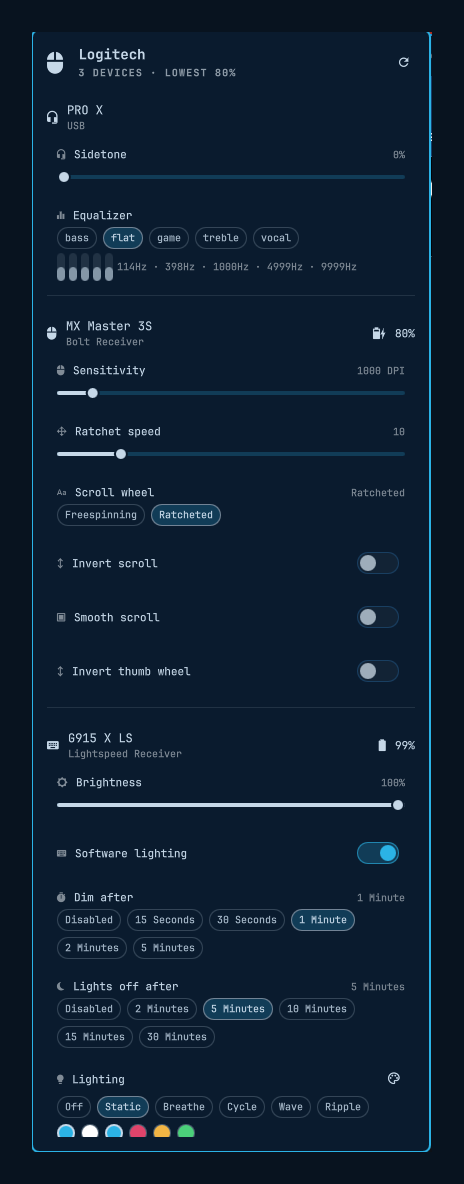
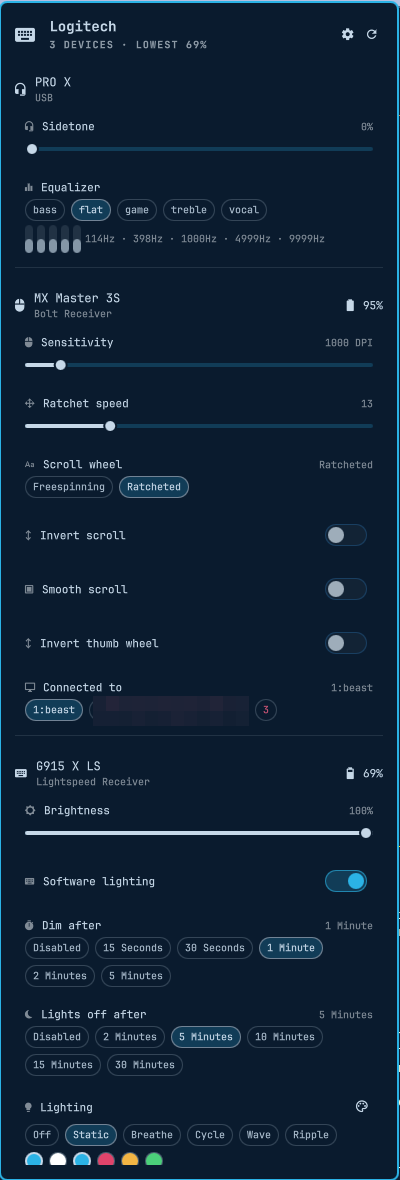
Bring the docs up to 1.2
README covers what shipped since 1.0: the batteryScope/batteryStyle bar
settings with a strip showing the drawn styles, the full settings window
(how to open it, what each group holds, why the gesture button reading
Diverted is correct), the equalizer band syntax for the CLI, and that
failures now exit non-zero.

preview.png regenerated from the current build — the old one predated
the WidgetButton spacing fix and the popup's gear button. The host-
switch chip naming another machine is pixelated; the old preview never
showed that row and the name is not the repo's to publish.

Claude-Session: https://claude.ai/code/session_01VhAvHh8Nd3bNgV1mZnXeZV

diff --git a/README.md b/README.md
@@ -4,9 +4,11 @@
 
 ---
 
-Control your Logitech hardware from the Omarchy bar: battery at a glance, and
-the settings actually worth reaching for — mouse DPI and scroll behavior,
-keyboard brightness and RGB, headset sidetone and equalizer.
+Control your Logitech hardware from the Omarchy bar: battery at a glance, a
+popup with the settings actually worth reaching for — mouse DPI and scroll
+behavior, keyboard brightness and RGB, headset sidetone and equalizer — and a
+full settings window for everything else, from button remapping to a custom
+equalizer curve.
 
 Everything talks HID++ through [Solaar](https://github.com/pwr-Solaar/Solaar)'s
 Python library. No vendor software, no Windows VM, no root.
@@ -90,8 +92,49 @@ left/right adjusts whatever is selected, Enter activates it. Host switching
 takes a deliberate Enter or click — arrow keys will not hand your mouse to
 another machine by accident.
 
-The bar button shows whichever device has the least battery left and turns
+The bar button shows battery for whichever device has the least left and turns
 urgent below 20%. The daemon raises one notification per discharge cycle.
+
+Two widget settings control what the bar draws — set them in the bar's widget
+settings, or inline on the widget's entry in `~/.config/omarchy/shell.json`:
+
+| Setting | Options |
+| --- | --- |
+| `batteryScope` | `Weakest device` (default) — one entry for the device most likely to die first · `All devices` — one glyph and indicator per connected device |
+| `batteryStyle` | `Percent` (default) — a number · `Icon` — the battery glyph ramp · `Bar` — a drawn level bar · `Battery` — a drawn outline lighting one segment per quarter charge · `Off` |
+
+```json
+{ "id": "io.github.rvcabc.logitech", "batteryScope": "All devices", "batteryStyle": "Battery" }
+```
+
+![All-devices mode in the Battery, Bar, and Icon styles](docs/battery-styles.png)
+
+A device that reports no battery (a headset running over USB, say) shows just
+its glyph rather than a fake empty indicator, a low battery tints only its own
+cell urgent, and a charging device gets the charging ramp or a bolt so it never
+reads as a dying one. The pre-1.1 `showBatteryText: false` is still honored
+when `batteryStyle` was never set.
+
+## The settings window
+
+The popup stays curated; the settings window shows everything writable. Open it
+with the gear in the popup header, `s` while the popup is open, or
+`omarchy shell io.github.rvcabc.logitech settings` (a toggle). It
+opens on whichever monitor has focus, one tab per device, Esc or a click
+outside closes it.
+
+- **Controls** — the popup's set, with draggable sliders
+- **Fine tuning** — everything else writable: high-resolution scroll and
+  thumb-wheel modes, and whatever else the device claims
+- **Button behavior** — per-button diversion: `Regular`, `Diverted` (events go
+  to software instead of acting on this machine), `Mouse Gestures`, `Sliding
+  DPI`. The gesture button showing `Diverted` is correct — that is how
+  gestures work; set it `Regular` and gestures stop.
+- **Button assignments** — remap each button to any action the device offers
+- **Equalizer** (headsets) — a preset cycler above one ±12 dB slider per band.
+  Drag any band and the preset reads `custom`; the name comes back when the
+  curve matches a preset again.
+- **Device info** — read-only values, for reference
 
 ## Command line
 
@@ -106,6 +149,8 @@ logi set mx-master-3s dpi 1600
 logi set g915-x-ls brightness_control 50
 logi set pro-x sidetone 30
 logi set pro-x equalizer bass          # flat | bass | vocal | treble | game
+logi set pro-x equalizer 114Hz=-6      # one band, by name, prefix ("114"), or index ("0")
+logi set pro-x equalizer 2,4,0,-3,1    # the whole curve at once
 logi toggle mx-master-3s hires-smooth-invert
 
 logi rgb g915-x-ls static --color 2bb3e6
@@ -116,24 +161,27 @@ logi theme                             # match the current Omarchy theme accent
 
 Device keys are slugs of the device name (`logi list` prints them); any unique
 substring of the name works too. Every command prints one JSON object, so
-failures read as `{"ok": false, "error": ...}` rather than a traceback.
+failures read as `{"ok": false, "error": ...}` rather than a traceback — and
+exit non-zero, so `logi set ... && ...` behaves in scripts.
 
 ## What gets exposed
 
 The panel draws a curated set of settings — the ones worth a bar popup rather
 than every HID++ feature a device claims:
 
-| Device class | Controls |
-| --- | --- |
-| Mice | Battery, DPI, ratchet speed, scroll wheel mode, scroll and thumb-wheel inversion, host switching |
-| Keyboards | Battery, brightness, software lighting, per-zone RGB effects, dim and sleep timeouts |
-| Headsets | Sidetone, 5-band equalizer presets |
+| Device class | Popup | Settings window adds |
+| --- | --- | --- |
+| Mice | Battery, DPI, ratchet speed, scroll wheel mode, scroll and thumb-wheel inversion, host switching | High-resolution scroll modes, per-button diversion and gestures, button remapping |
+| Keyboards | Battery, brightness, software lighting, per-zone RGB effects, dim and sleep timeouts | Whatever else the keyboard exposes |
+| Headsets | Sidetone, equalizer presets | Per-band ±12 dB equalizer sliders |
 
 Developed against an MX Master 3S (Bolt), a G915 X LS (Lightspeed), and a PRO X
 headset (USB). Any other Logitech device Solaar recognizes appears
-automatically; the panel draws the controls it knows how to draw (see
-`CONTROL_SPECS` in `bin/logi`) and quietly ignores the rest. `logi status --all`
-shows everything the device exposes, including what the panel hides.
+automatically; the popup draws the controls it knows how to draw (see
+`CONTROL_SPECS` in `bin/logi`), the settings window draws every writable
+setting generically, and `logi status --all` prints the lot as JSON. The only
+things deliberately hidden are the raw RGB blobs (the lighting UI owns those)
+and the per-key color map (a hundred-row footgun).
 
 ## How it works
 
@@ -142,7 +190,8 @@ shows everything the device exposes, including what the panel hides.
 | `bin/logi` | The whole backend: discovery, reads, writes, and the daemon |
 | `omarchy-logitech.service` | systemd user unit that keeps the daemon running |
 | `Panel.qml` | Bar button and popup |
-| `Service.qml` | Unix-socket client the panel drives |
+| `SettingsWindow.qml` | The full settings window |
+| `Service.qml` | Unix-socket client the panel and window drive |
 | `Model.js` | Glyphs and formatting |
 | `hooks/theme-set.d/` | Optional hook that repaints lighting on theme changes |
 
